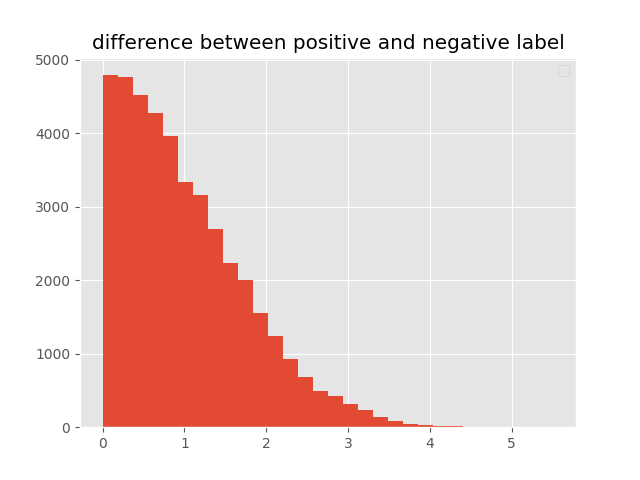
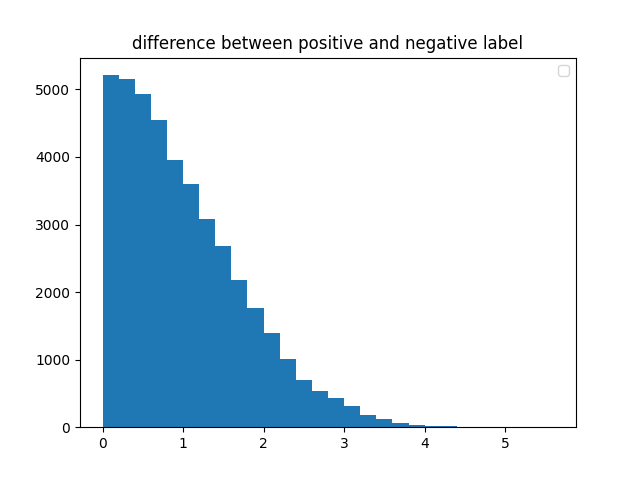
test

diff --git a/plot_sentiment.py b/plot_sentiment.py
@@ -9,7 +9,7 @@ import geopandas
 import re
 import math
 
-plt.style.use('ggplot')
+#plt.style.use('ggplot')
 
 norway = geopandas.read_file('kommuner_komprimert.json')
 
@@ -49,7 +49,8 @@ print(len(bool_label))
 
 
 def plot_uncertainty_diff():
-    plt.hist(label_diff, bins=30)
+    binwidth = 0.2
+    plt.hist(label_diff, bins=np.arange(min(label_diff), max(label_diff) + binwidth, binwidth))
     plt.legend()
     plt.title('difference between positive and negative label')
     plt.savefig('fig/uncertainty_diff.png')
@@ -93,5 +94,6 @@ def district_bar_plot():
 
 if __name__ == '__main__':
     plot_uncertainty_diff()
+    plot_uncertainty_hist()
     #norway_plot()
     #pass
